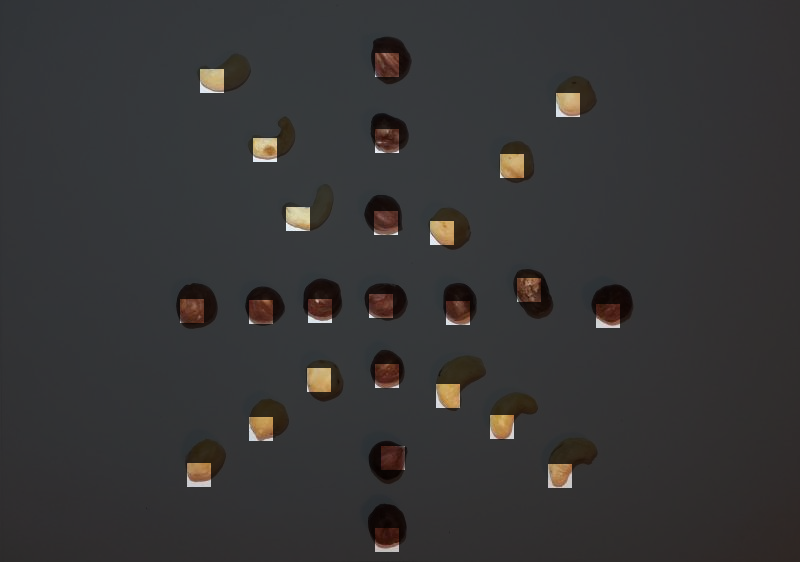
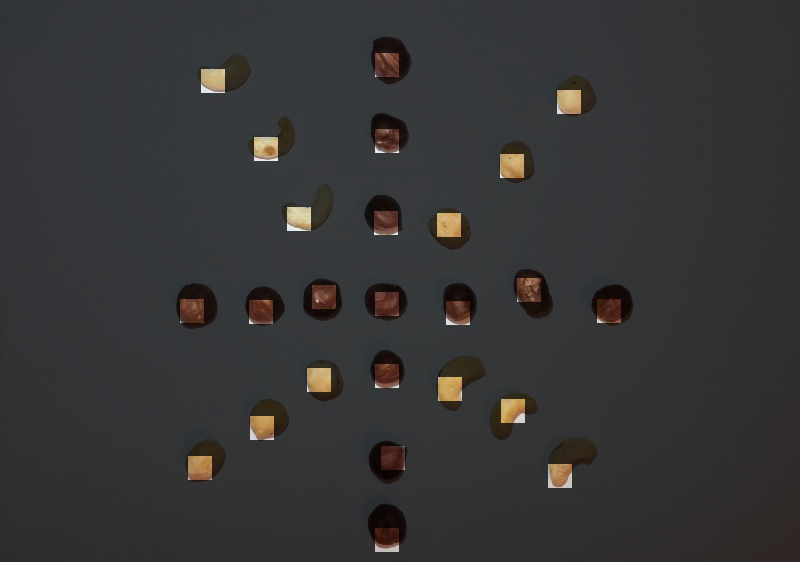
Added reliable dark colour detection.
Via the magic of relative RGB distances we're pretty good on finding a
dark nut.

Now to find light nuts, based on "shape". Wish me luck.

diff --git a/Zadanie 3/algoMain/detectNut.java b/Zadanie 3/algoMain/detectNut.java
@@ -14,6 +14,9 @@ public class detectNut {
 		public int numberLight =0; //number of reverse-racist nuts.
 		public int numberCurve =0; //number of curved nuts.
 		
+		private double darkDistance =122.995; //The distance of a dark colour from our RGB zeropoint (0,0,0).
+		//private double lightDistance =225.869; //The distance of a light colour from our RGB zeropoint (0,0,0).
+		
 		//Constructor - take in the image to test and the user-created average grape width and height.
 		public detectNut(int[][][] img, int x, int y, double cutoff, int distance){
 			this.img = img;
@@ -22,7 +25,7 @@ public class detectNut {
 			
 			this.checkMap = new int[800][562]; //Fill it flatly, each grape image is standarized.
 			
-			countGrapes(cutoff, distance); //Immedaitelly count them, no need to wait.
+			countNuts(cutoff, distance); //Immedaitelly count them, no need to wait.
 			
 			System.out.println("Nuts counted for image. The results are in.");
 			System.out.println("Number of dark nuts: "+this.numberDark);
@@ -38,7 +41,7 @@ public class detectNut {
 		//To prevent double-checking, we have to check two things. A) In the new checkbox, did we reach a previous one?
 		//														   B) Is the new checkbox within X distance of another one?
 		//Of course, the latter is set by us and has to be somewhat adjusted based on the minimal grape size, but that's fine-tuning.
-		private void countGrapes(double thresh, int dist){
+		private void countNuts(double thresh, int dist){
 			//First loop set. Scan. By height.
 			for(int x=0; x<800; x++){
 				for(int y=0; y<562; y++){
@@ -49,10 +52,6 @@ public class detectNut {
 					int b = this.img[2][x][y];
 					int arg = (r+g)/2;
 					int agb = (g+b)/2;
-					int abr = (b+r)/2;
-					int rg = Math.abs(this.img[0][x][y] - this.img[1][x][y]);
-					int gb = Math.abs(this.img[1][x][y] - this.img[2][x][y]);
-					int br = Math.abs(this.img[2][x][y] - this.img[0][x][y]);
 					
 					if((arg>b+30) || (r>agb+40)){
 						//If the segment ain't some shade of green, let's start considering it.
@@ -78,18 +77,11 @@ public class detectNut {
 							totalRed/=hash;
 							totalGreen/=hash;
 							totalBlue/=hash;
-							//System.out.println("totalRed: "+totalRed);
-							//System.out.println("totalGreen: "+totalGreen);
-							//System.out.println("totalBlue: "+totalBlue);
-							//And now, our grapes are un-uniform fuckers. The purple we're dealing with is muddy,
-							//meaning it's red value is high but green and blue are about even.
-							//The green is also a reddish one, so it's green and red values are high while blue is insignificant.
-							int avgGB = (totalGreen+totalBlue)/2;
-							//System.out.println("AverageRG: "+avgRG);
-							//System.out.println("AverageGB :"+avgGB);
-							//Check for purple, since it's much easier. If it's not purple, it's green.
-							if (totalRed>avgGB && totalRed>totalGreen+25) this.numberLight++;
-							else this.numberDark++;
+							double currentDist = Math.sqrt((totalRed*totalRed)+(totalGreen*totalGreen)+(totalBlue*totalBlue));
+							//And now the colour detection strikes again.
+							if(currentDist>this.darkDistance-40 && currentDist<this.darkDistance+40) this.numberDark++;
+							else countOblong(x, y);
+							
 						}
 						//...if not, tough luck, we've already been to this area.
 					}
@@ -120,7 +112,7 @@ public class detectNut {
 						int r = this.img[0][x+startx][y+starty];
 						int g = this.img[1][x+startx][y+starty];
 						int b = this.img[2][x+startx][y+starty];
-						if(r>200 && g>200 && b>200) white++;
+						if(r>190 && g>190 && b>190) white++;
 					}
 				}
 			}
@@ -207,6 +199,13 @@ public class detectNut {
 						this.checkMap[x+startx][y+starty] = 255;
 					}
 			}
+		}
+		
+		//Count oblong - this function attempts to draw a circle starting at the middle-right side of the detected sector.
+		//If the circle fits the nut thoroughly (as in, the whitness level is low), then we consider it a light nut.
+		//If the lightness level is higher than, say, ~30%, it means the circle didn't entirely fit and we got an oblong nut.
+		private void countOblong(int startx, int starty){
+			
 		}
 
 }

diff --git a/Zadanie 3/main.java b/Zadanie 3/main.java
@@ -9,7 +9,7 @@ public class main {
 	public static void main(String[] args) throws IOException{
 		int[][][] img = imageRW.readImage("OreNew", "3.jpg");
 		
-		detectNut test = new detectNut(img, 24, 24, 15, 30);
+		detectNut test = new detectNut(img, 24, 24, 12, 40);
 		//imageRW.checkMapSave(test.checkMap, 800, 600, "testCheck.png");
 		imageRW.saveCompound(test, 800, 562, "compound.png");
 	}
